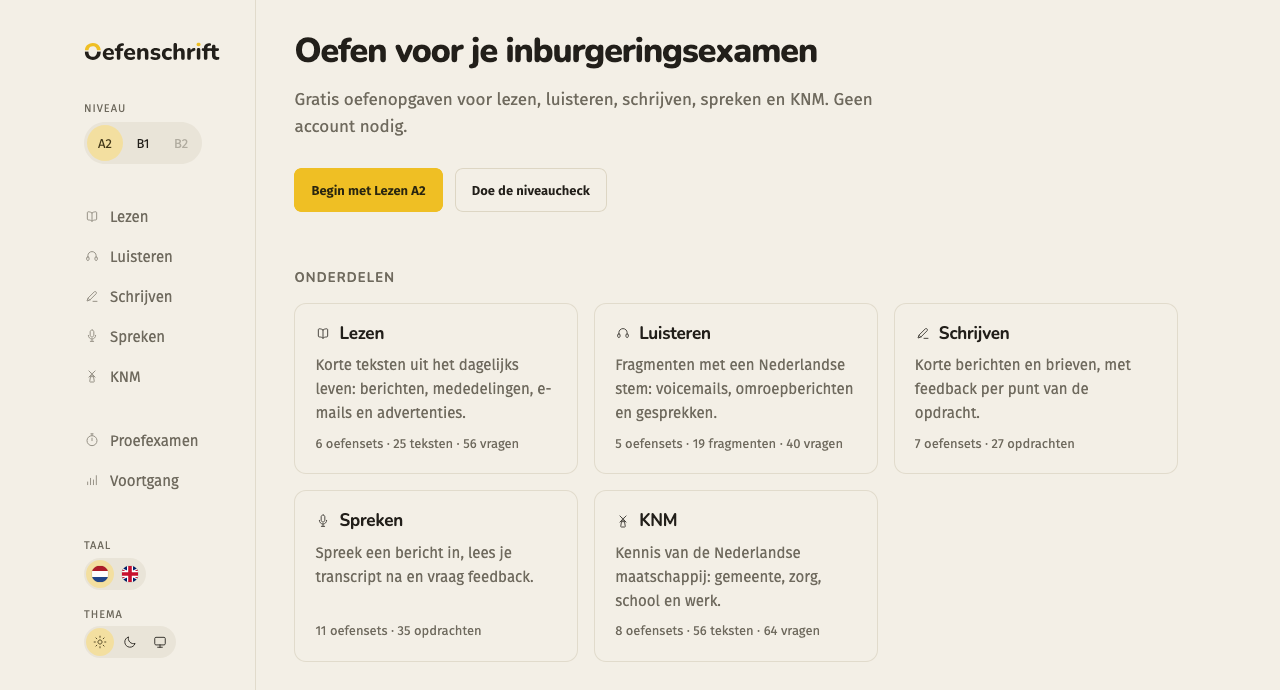
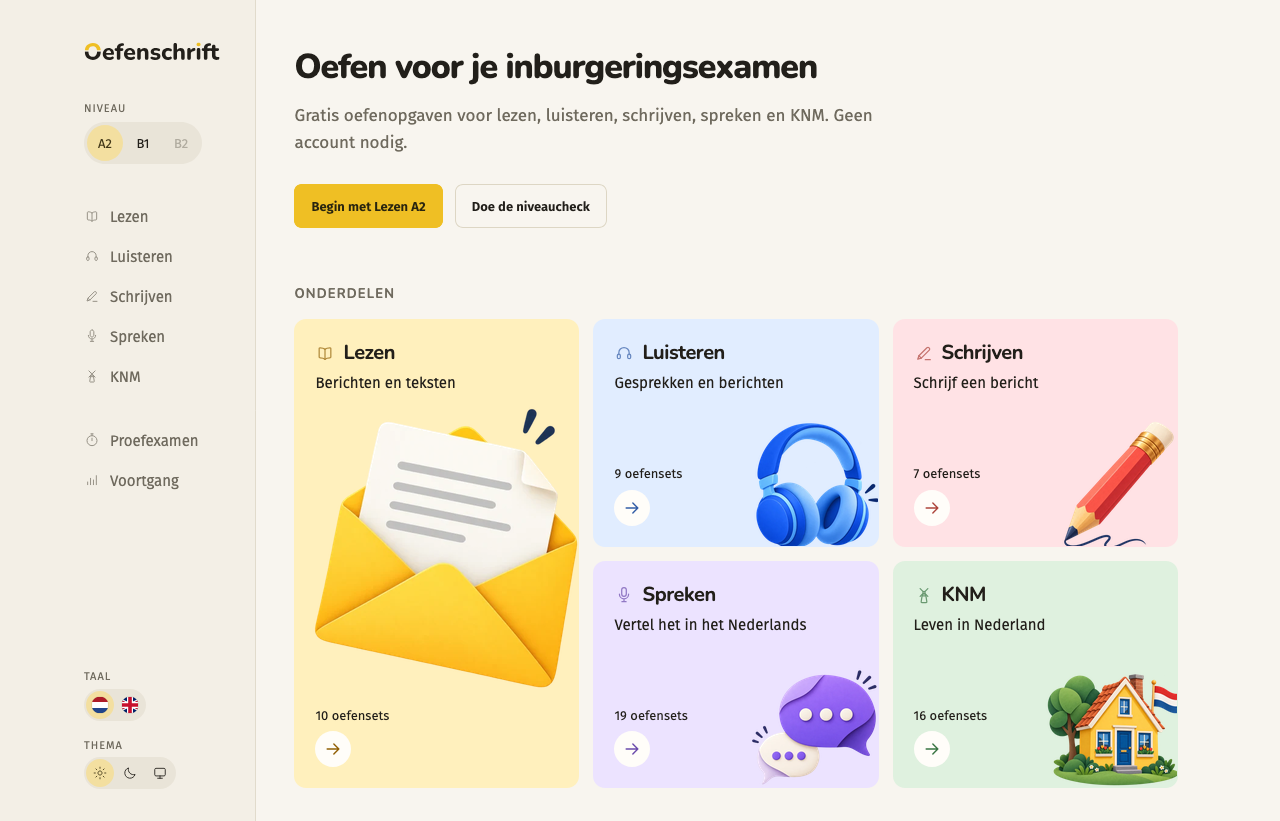
Refresh README screenshot from the current live home page

diff --git a/README.md b/README.md
@@ -4,7 +4,7 @@ Free, independent practice for the Dutch **inburgering** exams: reading, listeni
 
 **Live:** [oefenschrift.nl](https://oefenschrift.nl/)
 
-![The start page: level, subjects with their practice sets, a level check and a sample question](docs/screenshots/home.png)
+![The Dutch start page with illustrated cards for reading, listening, writing, speaking and KNM](docs/screenshots/home.png)
 
 ## What you get
 
